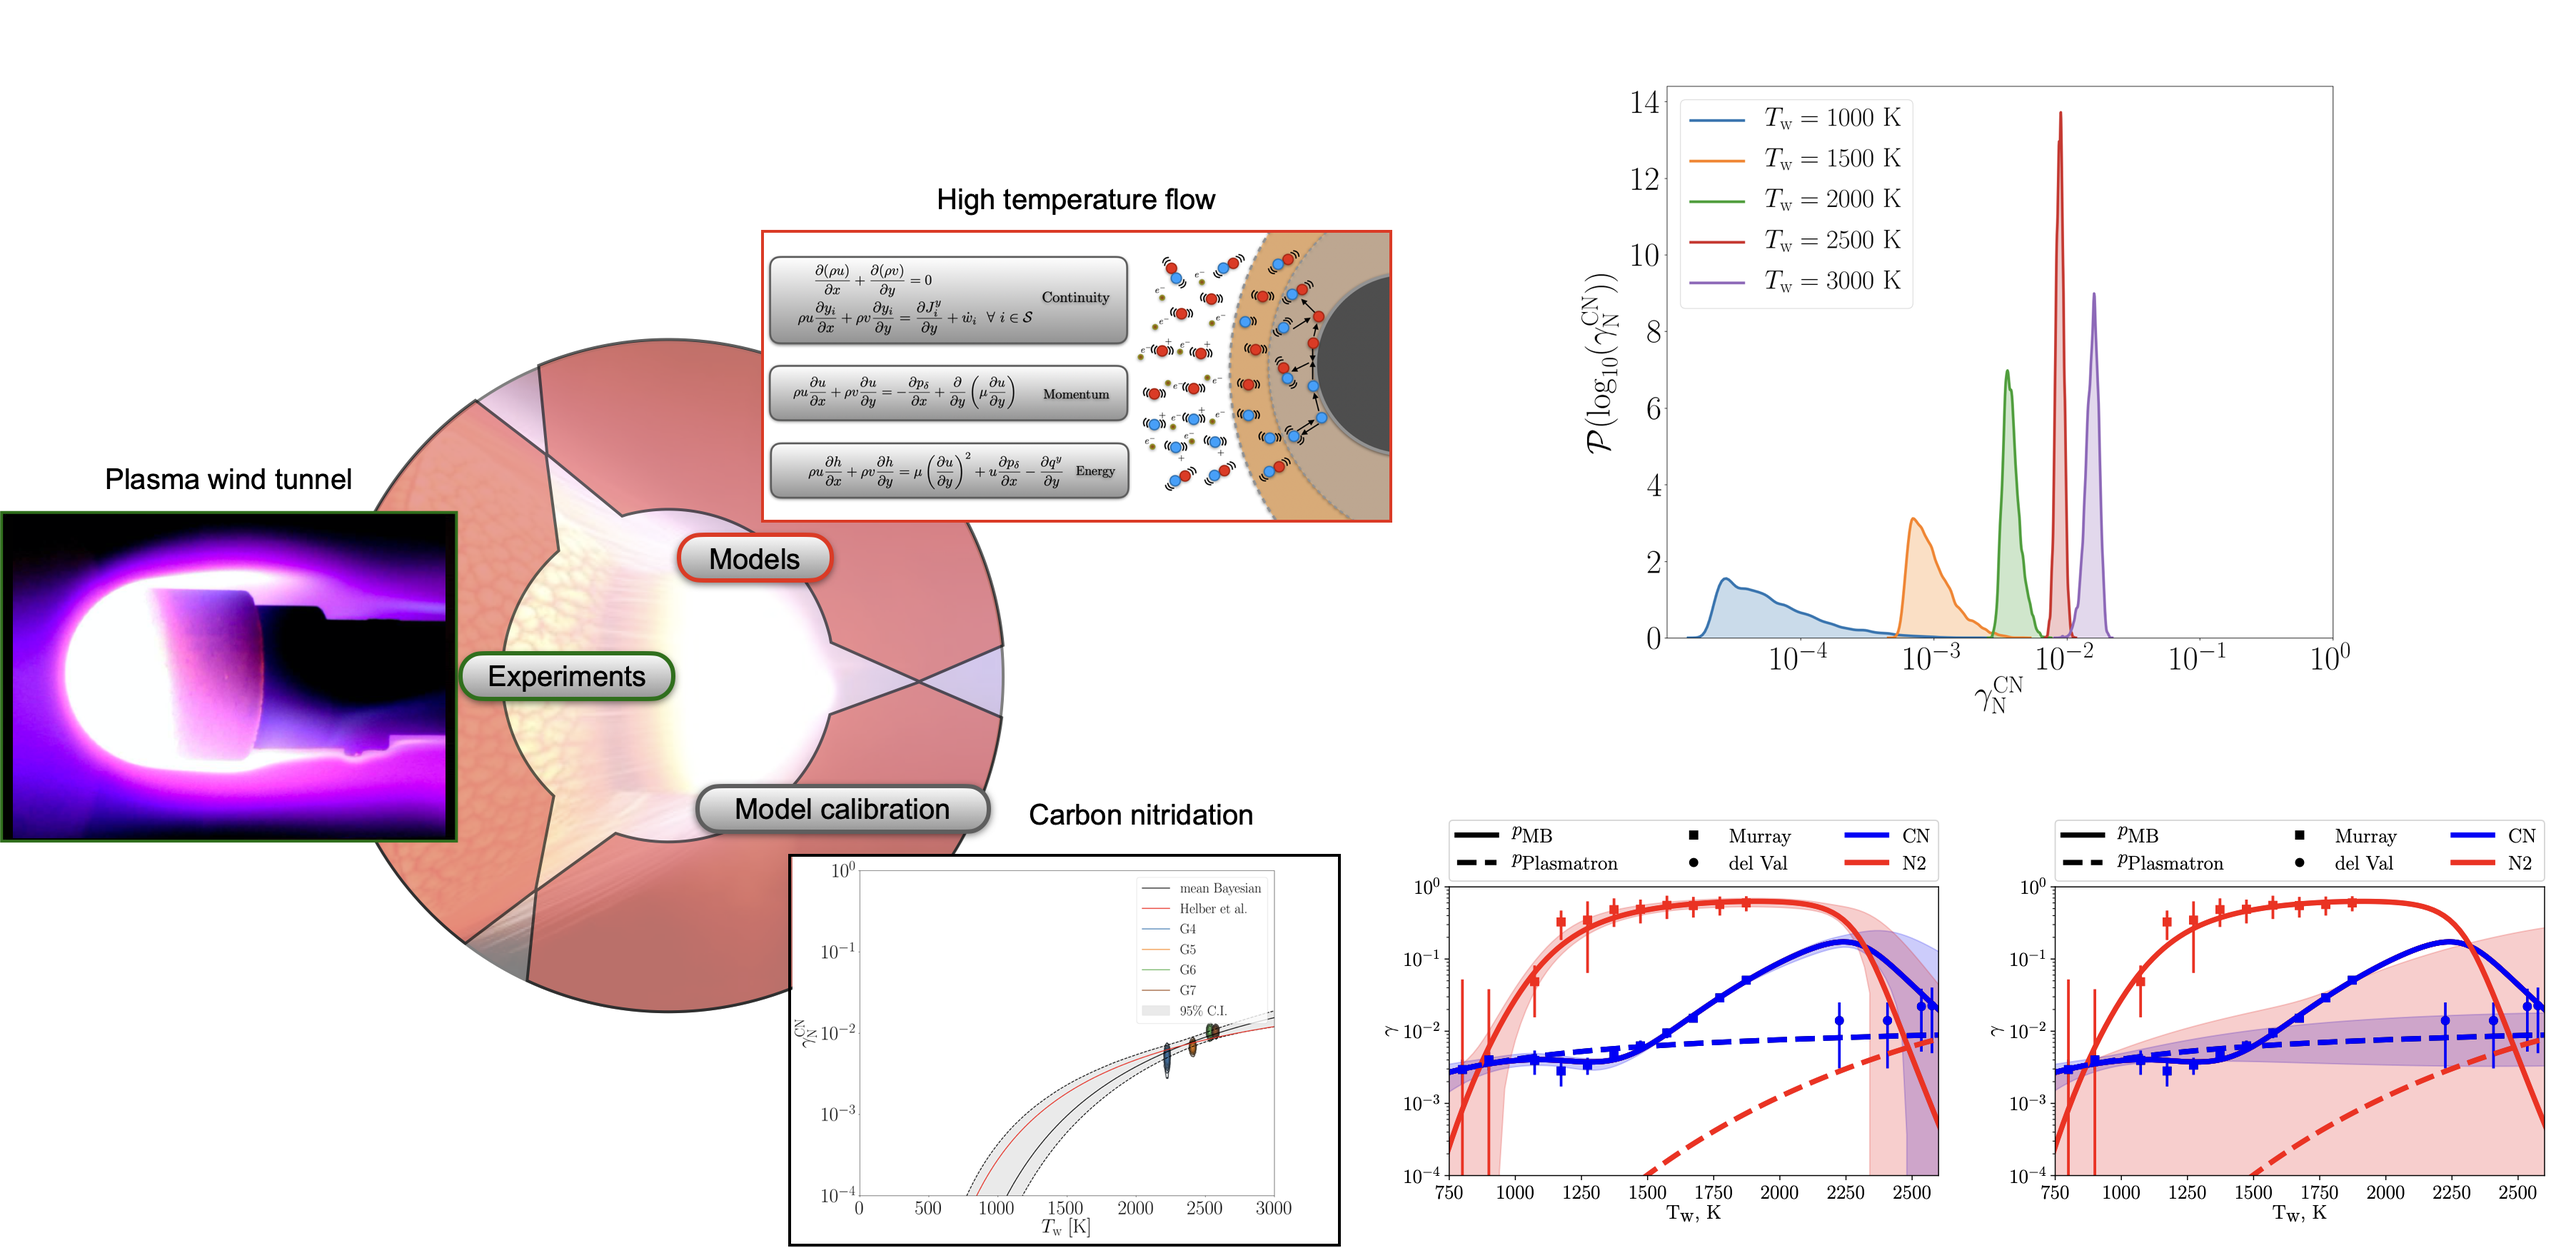
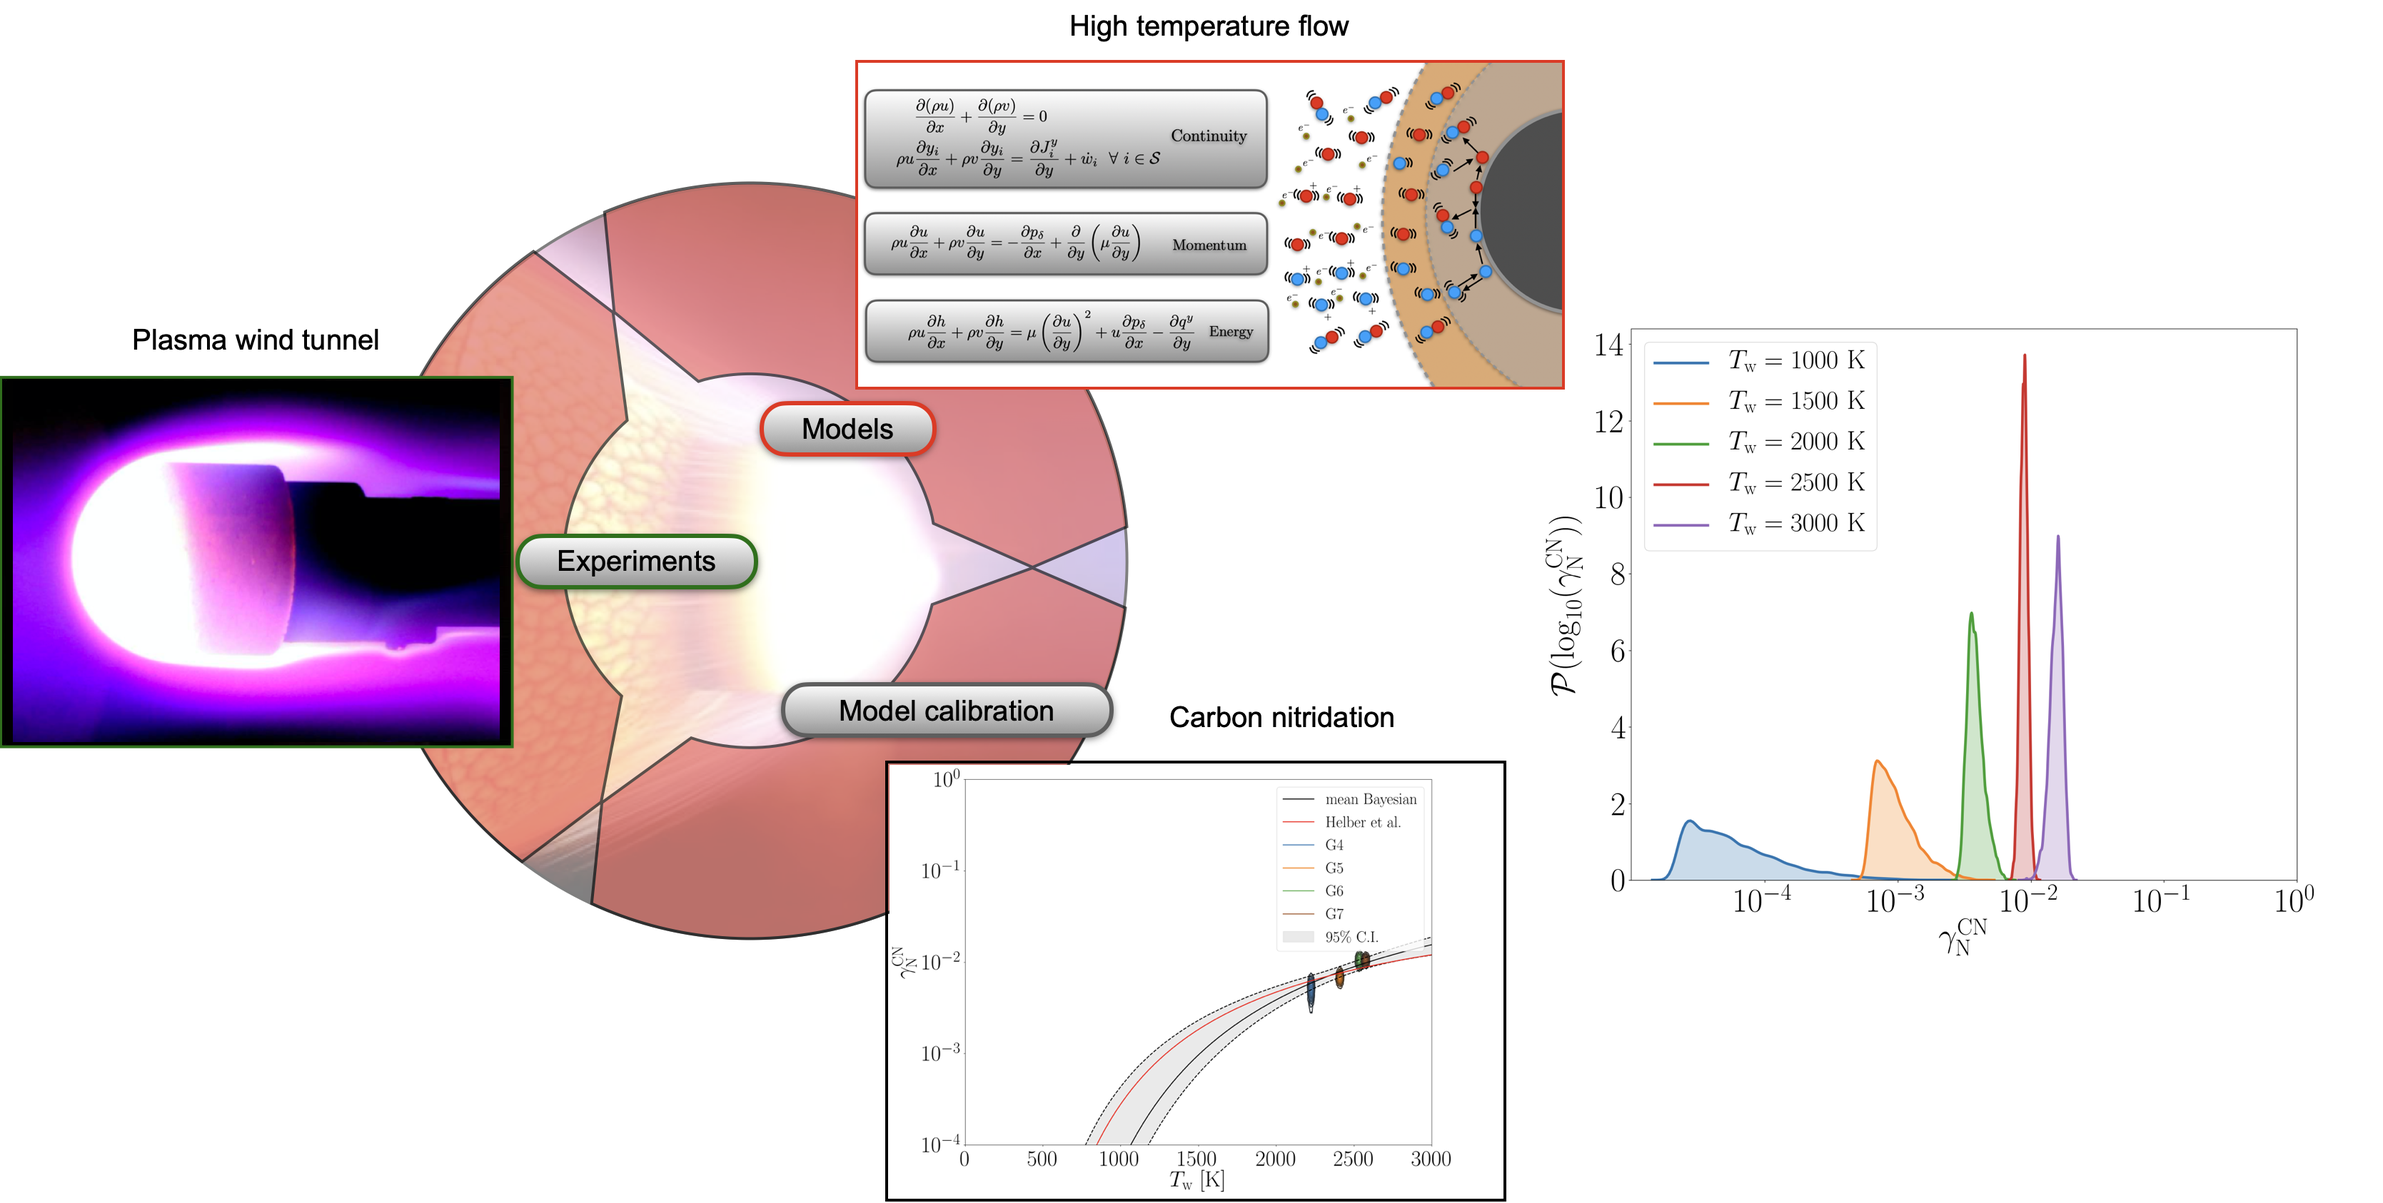
research

diff --git a/research.md b/research.md
@@ -35,7 +35,7 @@ Below you can find a list of the ongoing and past research. **Come join our team
 
 | In this work, we answer the question: "can we learn anything from intrusive measurements in a plasma wind tunnel about gas-phase chemical reactions?" This question has long been dominated in the hypersonics community by almost exclusively looking at shock tube experiments, and the study of radiative signatures of selected excited species in the post-shock region created in such facilities. Forward rate of reactions can very effectively be obtained through the use of those data. Boundary layer modeling requires accurate modeling of backward (e.g. recombination) rates which are generally derived by assuming the principle of detailed balance to be true, possibly giving a biased view on recombination kinetics from shock tube data.
 
-In this work, we flip the switch and use experimental data sensitive to boundary layer quantities to obtain calibrated forward rates that, while still relying on the same principle of detailed balance, produce a consistent estimation of backward rates as they are now the drivers of the inference performed with this new set of experimental data. Apart from that, we are also able to prescribe interesting follow-up works that can help in obtaining a rigorous validation of gas-phase chemical models in hypersonic flows.  | ![Image]({{ site.url }}{{ site.baseurl }}/images/highlight_image.png){:width="150%"} |
+In this work, we flip the switch and use experimental data sensitive to boundary layer quantities to obtain calibrated forward rates that, while still relying on the same principle of detailed balance, produce a consistent estimation of backward rates as they are now the drivers of the inference performed with this new set of experimental data. Apart from that, we are also able to prescribe interesting follow-up works that can help in obtaining a rigorous validation of gas-phase chemical models in hypersonic flows.  | ![Image]({{ site.url }}{{ site.baseurl }}/images/highlight_image.jpeg){:width="150%"} |
 
 <span style="font-size: larger;"><strong>Free-stream characterization</strong></span>
 
